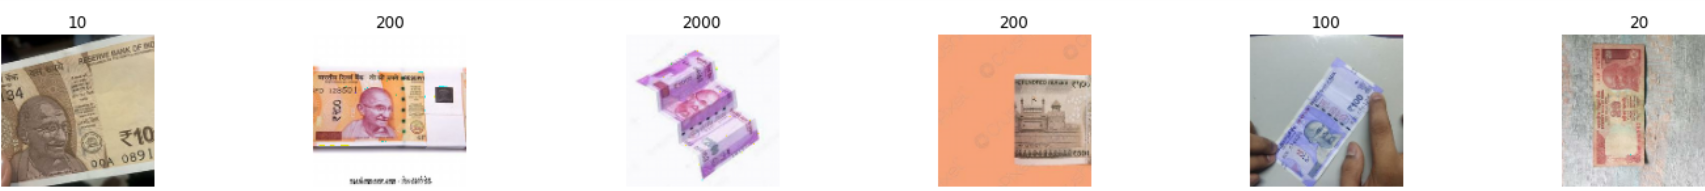
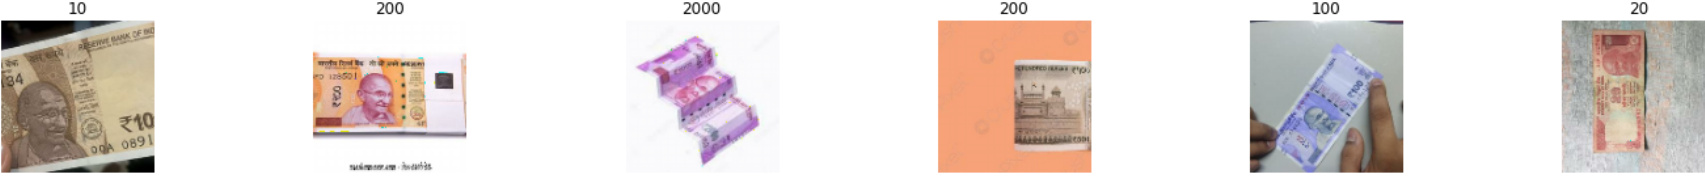
Updates

diff --git a/README.md b/README.md
@@ -67,5 +67,5 @@ A model has a life-cycle, and this very simple knowledge provides the backbone f
 <br/>
 
 <img width="700px"  height = "450px" src="https://github.com/ParulParima/Indian-Currency-Classification/blob/main/Outputs/Output1.png?raw=true" />
-<img width="700px"  height = "112px" src="https://github.com/ParulParima/Indian-Currency-Classification/blob/main/Outputs/Output2.png?raw=true" />
+<img width="700px"  height = "110px" src="https://github.com/ParulParima/Indian-Currency-Classification/blob/main/Outputs/Output2.png?raw=true" />
 <img width="700px"  height = "450px" src="https://github.com/ParulParima/Indian-Currency-Classification/blob/main/Outputs/Output3.png?raw=true" />
